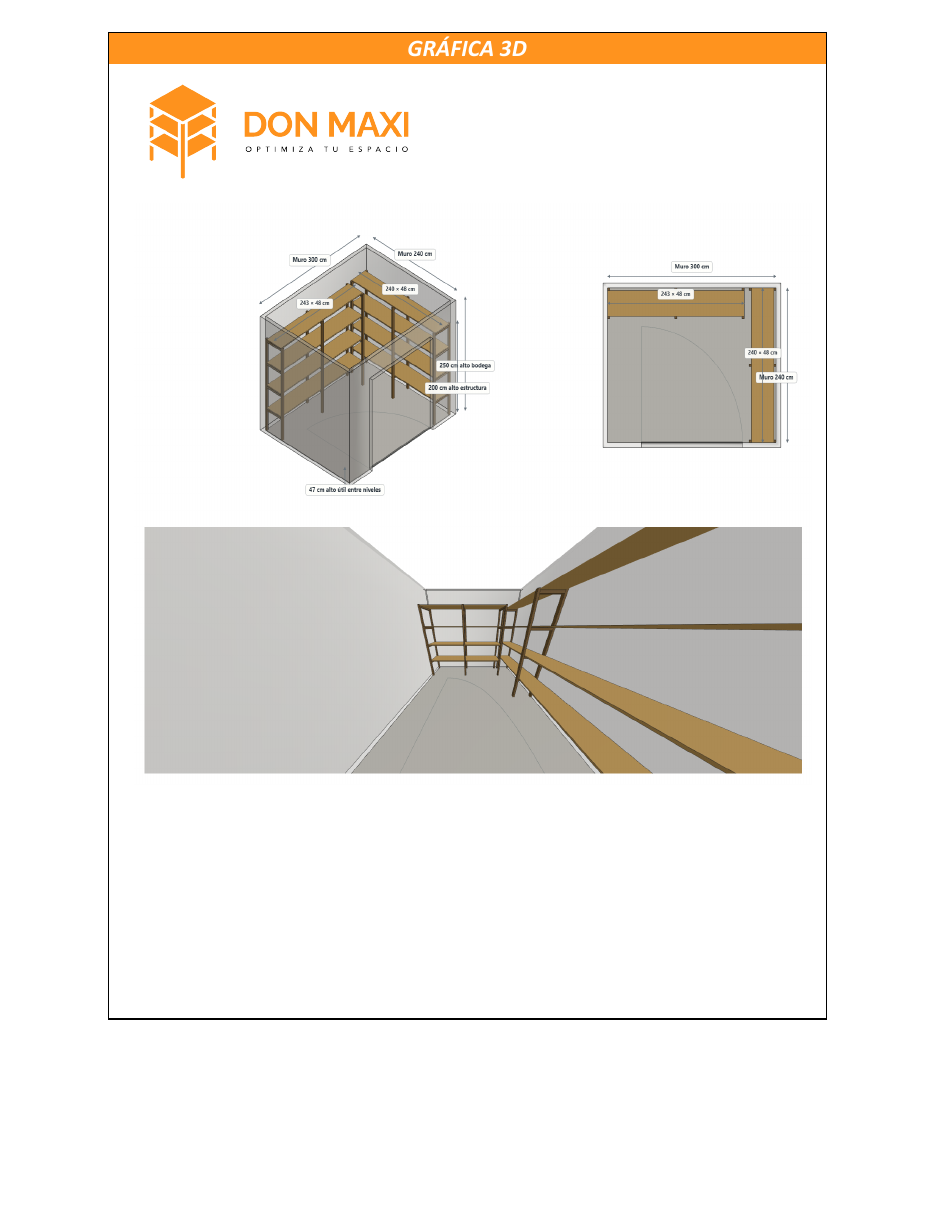
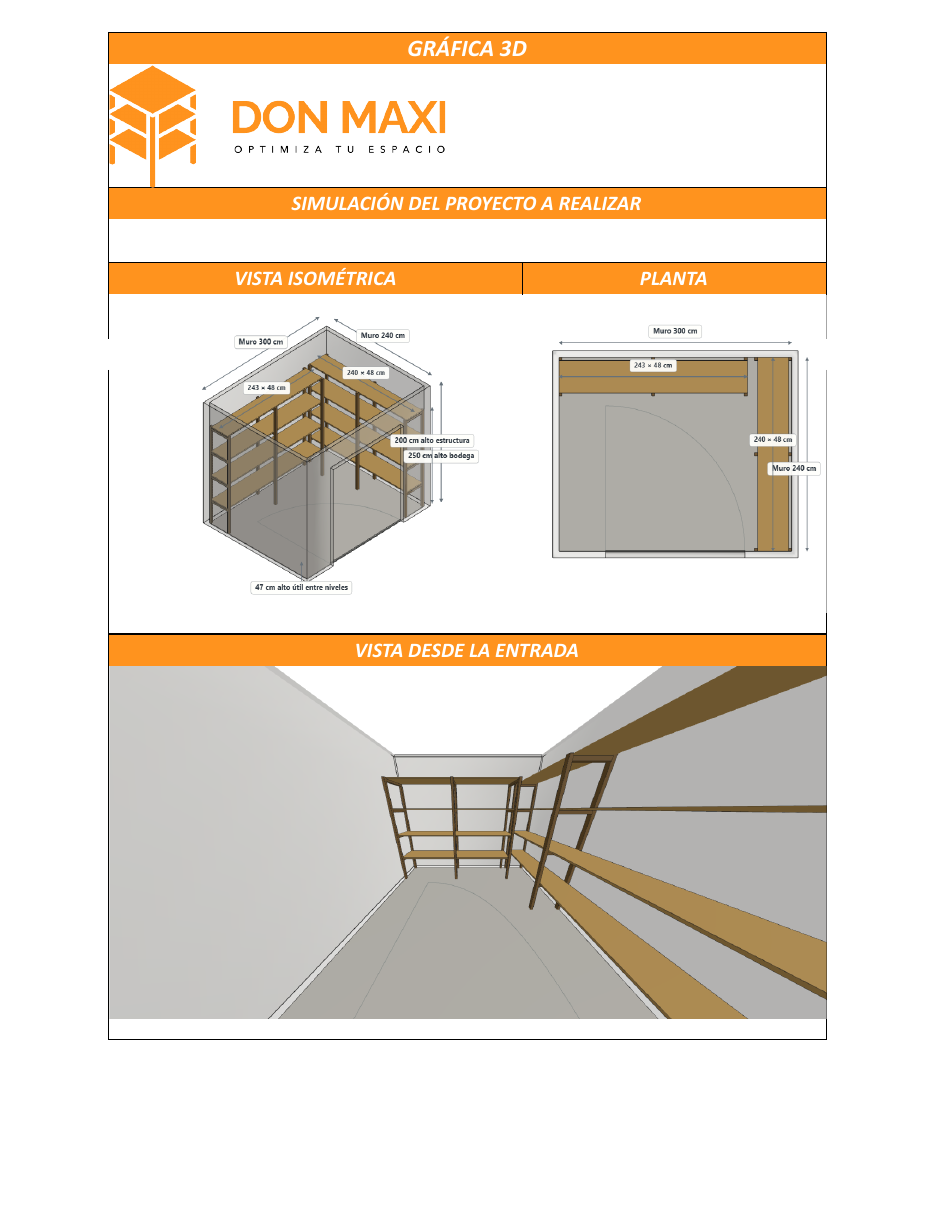
feat(pdf): la pagina de grafica 3D se arma con las tres vistas por separado
Antes entraba una sola imagen con las tres vistas ya compuestas adentro. Los
titulos, si los hubiera, habrian ido dibujados dentro del PNG y con otra
tipografia que el resto del documento.

Ahora la hoja Grafica3D tiene tres recuadros y los titulos son celdas de la
plantilla, con la misma banda naranja que usa la pagina 1 para DATOS CLIENTE o
REPISAS: titulo de pagina, bajada, y uno por imagen. La cotizacion le pide al
configurador cada vista en la medida exacta de su recuadro, asi que ninguna
entra deformada.

Reparte: isometrica y planta arriba, y la vista desde la entrada abajo a todo
el ancho, que es la de campo amplio.

diff --git a/src/admin/PorCotizar.jsx b/src/admin/PorCotizar.jsx
@@ -263,24 +263,35 @@ export default function PorCotizarSection({ statuses, visitaSeleccionada, allVis
 
   const cliente = mode === 'visita' ? (selectedVisit || {}) : manualCliente
 
-  // Le pide al visor la lamina de vistas que va como pagina 2. El configurador la arma con el
-  // mismo render que el boton "PNG 3 Vistas", asi que no hay que adjuntar nada a mano.
+  // Medida de cada recuadro de la hoja Grafica3D, al doble para que no se vea pixelada.
+  // Se piden con estas proporciones para que entren sin deformarse.
+  const VISTAS_PDF = [
+    { view: 'isometric', width: 760, height: 558 },
+    { view: 'top', width: 556, height: 558 },
+    { view: 'entrance', width: 1316, height: 616 },
+  ]
+
+  // Le pide al visor las tres vistas que van en la pagina 2, cada una por separado: en la
+  // plantilla van en recuadros distintos y con su titulo en una celda, no dentro de la imagen.
   function pedirGrafica3d() {
     const frame = frame3dRef.current
     if (!project3d || !frame?.contentWindow) return Promise.resolve(null)
     const requestId = crypto.randomUUID()
     return new Promise(resolve => {
       function terminar(valor) { clearTimeout(reloj); window.removeEventListener('message', escuchar); resolve(valor) }
-      const reloj = setTimeout(() => terminar(null), 20000)
+      const reloj = setTimeout(() => terminar(null), 30000)
       function escuchar(event) {
         const msg = event.data
         if (event.origin !== REPISAS_3D_ORIGIN || msg?.requestId !== requestId) return
-        if (msg.type === 'repisas:export-complete') terminar(bytesABase64(msg.payload.bytes))
+        if (msg.type === 'repisas:export-complete' && msg.payload?.images) {
+          terminar(Object.fromEntries(msg.payload.images.map(i => [i.view, bytesABase64(i.bytes)])))
+        }
         if (msg.type === 'repisas:error') terminar(null)
       }
       window.addEventListener('message', escuchar)
       frame.contentWindow.postMessage({
-        type: 'repisas:export-request', version: PROTOCOL, requestId, payload: { kind: 'contact-sheet' },
+        type: 'repisas:export-request', version: PROTOCOL, requestId,
+        payload: { kind: 'quote-views', views: VISTAS_PDF },
       }, REPISAS_3D_ORIGIN)
     })
   }
